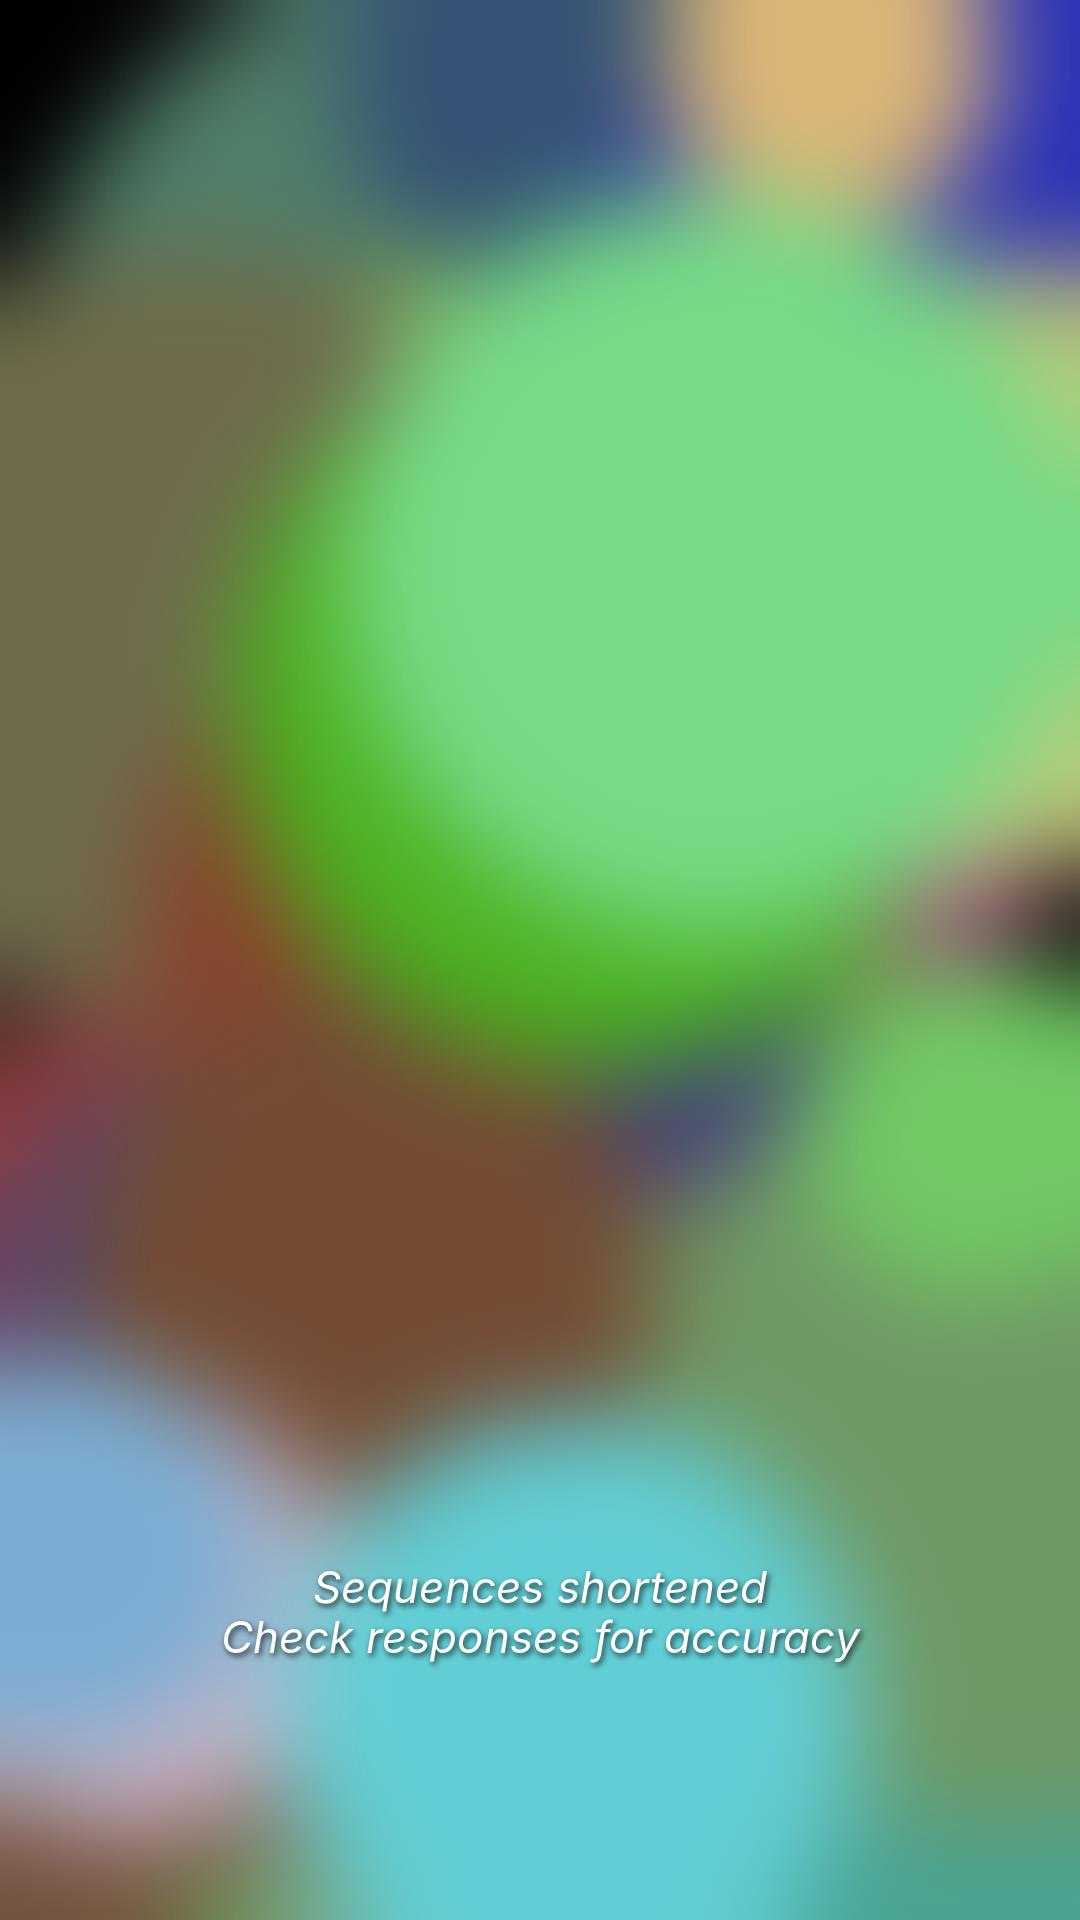
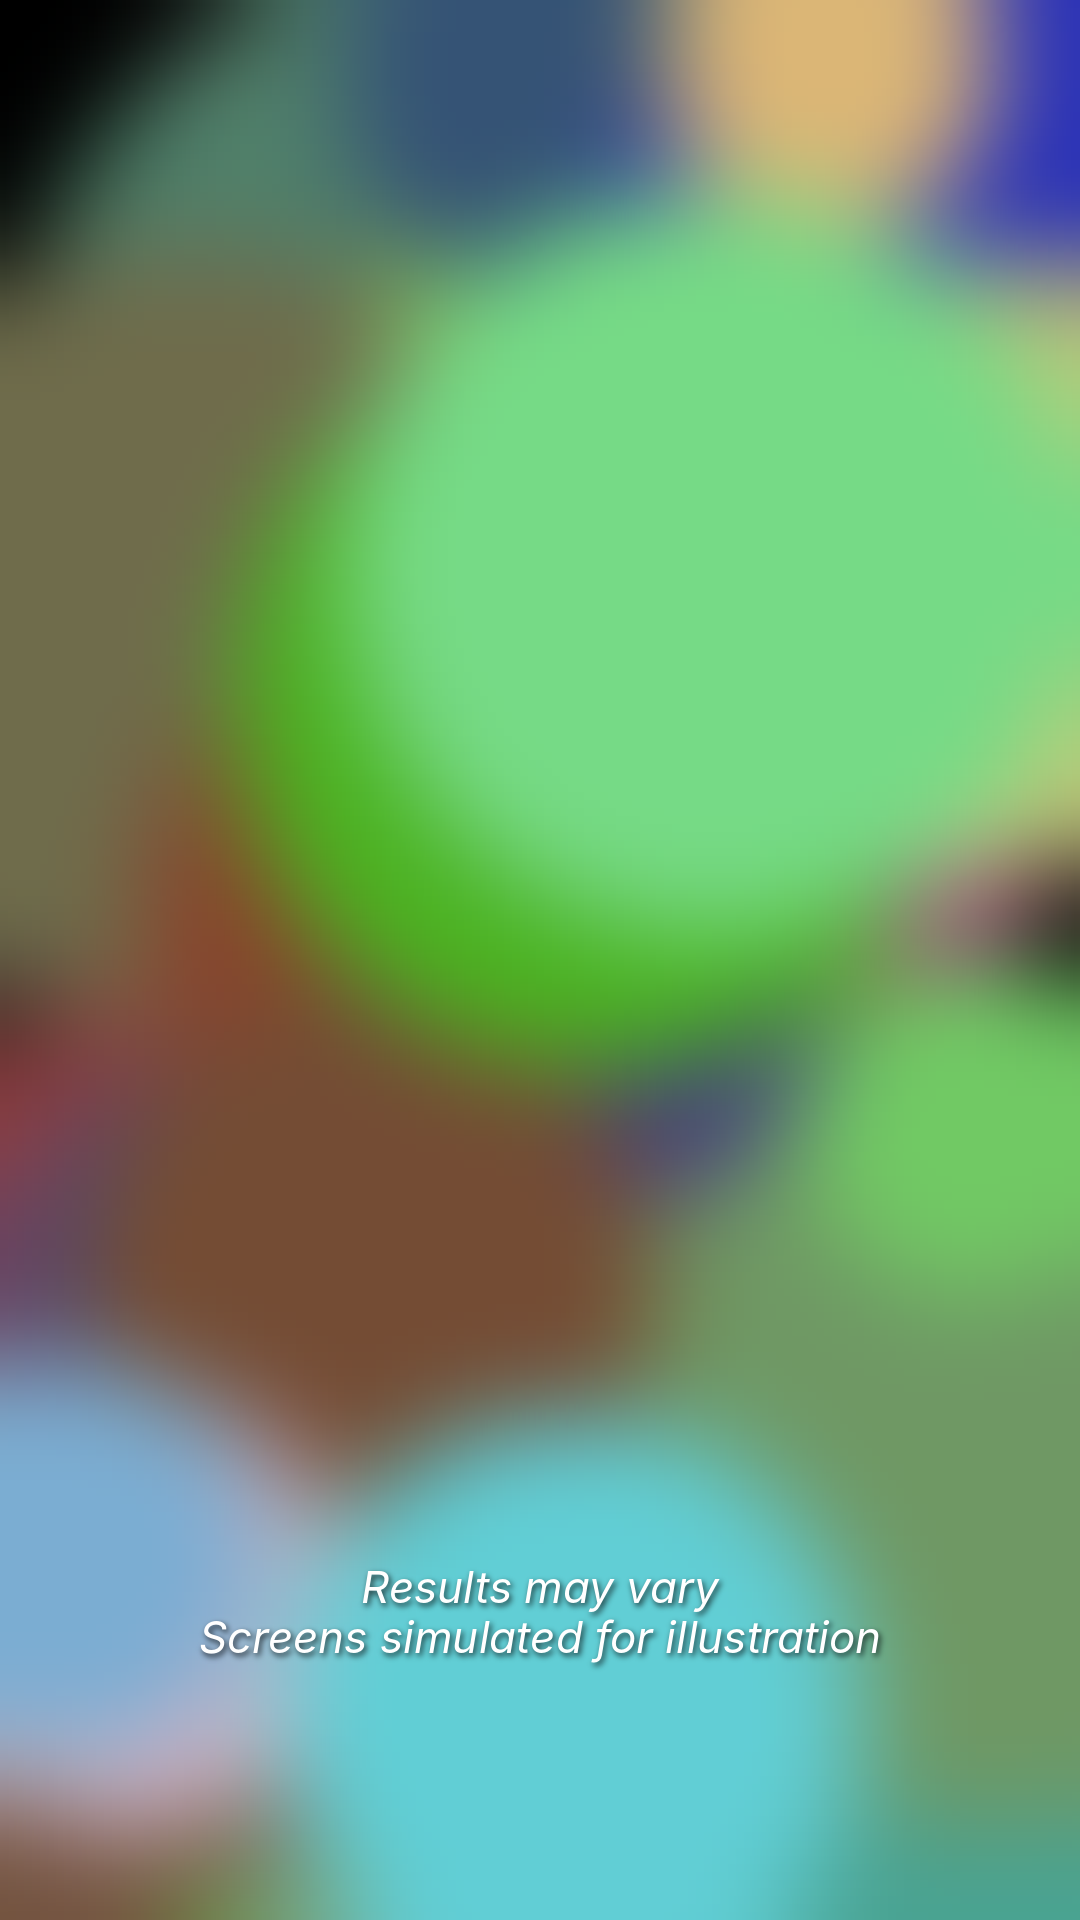
Readme, generic fixtures, disclaimer

Changed region(s): [[0.1833, 0.8125, 0.825, 0.875]]

diff --git a/fixtures/make.py b/fixtures/make.py
@@ -113,15 +113,15 @@ text_block(im, (60, 160), "Weekend", 150, (255, 255, 255), 960, BOLD)
 text_block(im, (60, 930), LEGAL, 28, (255, 255, 255), 960)
 save("feed_on_photo.png", im, 72, format="feed_square", font_px=28)
 
-# 10. Two candidate blocks: tiny UI text on a phone screen + the real super
+# 10. Two candidate blocks: tiny UI text on a phone screen + the real disclaimer super
 im = photo(1080, 1920, seed=11)
 d = ImageDraw.Draw(im)
 d.rounded_rectangle([360, 900, 860, 1500], 24, fill=(240, 238, 230))
-text_block(im, (390, 960), "Check our family calendar for a 2-hour slot next week when we're both free and suggest date ideas.", 18, (70, 70, 70), 440)
-text_block(im, (390, 1120), "Based on your calendar there is one clear 2-hour window during school hours.", 18, (110, 110, 110), 440)
+text_block(im, (390, 960), "Find a free hour on Thursday and suggest three places nearby for lunch.", 18, (70, 70, 70), 440)
+text_block(im, (390, 1120), "You have one free hour on Thursday afternoon between meetings.", 18, (110, 110, 110), 440)
 d.rectangle([0, 1640, 1080, 1800], fill=(30, 30, 30))
-text_block(im, (300, 1660), "Sequences shortened.", 40, (255, 255, 255), 700)
-text_block(im, (230, 1715), "Check responses for accuracy.", 40, (255, 255, 255), 700)
+text_block(im, (300, 1660), "Results may vary.", 40, (255, 255, 255), 700)
+text_block(im, (230, 1715), "Screens simulated for illustration.", 40, (255, 255, 255), 700)
 save("story_two_blocks.png", im, 72, format="story", font_px=18)
 
 # 11. Italic white super with a soft drop shadow straight over a photo
@@ -129,13 +129,13 @@ ITAL = "/usr/share/fonts/opentype/inter/Inter-Italic.otf"
 im = photo(1080, 1920, seed=5)
 sh = Image.new("RGBA", im.size, (0, 0, 0, 0))
 sd = ImageDraw.Draw(sh)
-for (y, t) in [(1560, "Sequences shortened"), (1610, "Check responses for accuracy")]:
+for (y, t) in [(1560, "Results may vary"), (1610, "Screens simulated for illustration")]:
     f = font(ITAL, 44); w = sd.textlength(t, font=f)
     sd.text(((1080 - w) / 2 + 2, y + 3), t, font=f, fill=(0, 0, 0, 200))
 sh = sh.filter(ImageFilter.GaussianBlur(3))
 im = Image.alpha_composite(im.convert("RGBA"), sh).convert("RGB")
 d = ImageDraw.Draw(im)
-for (y, t) in [(1560, "Sequences shortened"), (1610, "Check responses for accuracy")]:
+for (y, t) in [(1560, "Results may vary"), (1610, "Screens simulated for illustration")]:
     f = font(ITAL, 44); w = d.textlength(t, font=f)
     d.text(((1080 - w) / 2, y), t, font=f, fill=(255, 255, 255))
 save("story_super_photo.png", im, 72, format="story", font_px=44)

diff --git a/README.md b/README.md
@@ -1,63 +1,80 @@
-# smallpint
+# can you read the small print?
 
-Checks the legal copy on ad artwork for WCAG contrast and writes a rationale legal can sign off.
+a small tool that checks whether the legal copy on an ad is legible enough against the WCAG contrast rules, and writes a short note you can hand to legal.
 
-Drop in a PNG, JPG or WebP. Smallpint:
+[canyoureadthesmallprint.netlify.app](https://canyoureadthesmallprint.netlify.app)
 
-1. **Works out what the artwork is** from the file alone: standard ad sizes (incl. @2x/@3x exports), embedded DPI for print and OOH (incl. artwork supplied at 10% or 25%), and aspect-ratio families. Only asks a question when the size matches nothing.
-2. **Finds the legal copy** without OCR: the smallest consistent block of text on the artwork. The user can redraw the box.
-3. **Measures it**: text colour, worst-case background (for gradients and photos), and type size converted to what a person actually sees (CSS pt on screens; reading-distance equivalent for OOH).
-4. **Walks an internal rule tree** to AAA / AA / Fail and assembles a memo from pre-approved wording in [`crates/core/templates.toml`](crates/core/templates.toml).
+drop in an image, click the small print (or drag a box around it), and it tells you **AAA**, **AA** or **below AA**, with the reasoning. it all runs in your browser; the image never leaves your machine.
 
-Everything runs in the browser as WebAssembly. Artwork never leaves the device; there is no server and no LLM.
+a caveat up front: this was vibe coded with claude over an evening. the maths is the standard WCAG maths and there are tests, but it's a sketch rather than an audit tool. if you spot something wrong, issues and PRs are very welcome.
 
-## Layout
+## the maths
+
+all of this comes from the WCAG 2.x spec. nothing here is new.
+
+**1. colour to luminance.** each sRGB channel (0 to 1) is linearised, then weighted by how sensitive our eyes are to it (green most, blue least):
+
+```
+c ≤ 0.04045  →  c / 12.92
+otherwise    →  ((c + 0.055) / 1.055) ^ 2.4
+
+L = 0.2126 R + 0.7152 G + 0.0722 B
+```
+
+**2. contrast ratio.** lighter over darker, with a small offset for ambient light. it runs from 1:1 (same colour) to 21:1 (black on white):
+
+```
+ratio = (L_lighter + 0.05) / (L_darker + 0.05)
+```
+
+**3. thresholds.**
+
+|              | AA    | AAA   |
+| ------------ | ----- | ----- |
+| normal text  | 4.5:1 | 7:1   |
+| large text (18pt+, or 14pt+ bold) | 3:1 | 4.5:1 |
+
+that's the easy part. the fiddly bits are around the maths:
+
+- **which pixels are text?** inside the box you select, pixels are split into two groups by brightness ([Otsu's method](https://en.wikipedia.org/wiki/Otsu%27s_method)). the text colour is the median of the most solid 30% of text pixels, so anti-aliased edges don't drag it towards the background.
+- **which background?** the box is cut into tiles and every tile behind text is measured. the worst one is reported, so white text over a photo is judged on its weakest spot, not an average.
+- **how big is the text?** the x-height is measured from the rows of text pixels and divided by 0.56, the high end for real fonts. that way the estimate errs small, which means stricter thresholds when in doubt. ratios are truncated, never rounded up across a threshold.
+- **how big will it look?** this comes from the file. standard ad sizes (including @2x exports), embedded DPI for print (including billboard artwork supplied at 10%), or aspect ratio. on screens, `pt = image px × (screen css width ÷ image width) × 0.75`. for billboards the text is scaled to the same visual angle at a 40cm reading distance (`size × 0.4m ÷ viewing distance`). it's a rough benchmark, since WCAG doesn't formally cover print.
+
+## what it doesn't do
+
+- it's not legal advice. it checks contrast and size; it doesn't judge whether the wording is enough, or apply ASA / CAP / FTC prominence rules (beyond flagging very small text).
+- it doesn't read the text (no OCR). it knows *where* the copy is, not *what* it says.
+- PDFs aren't supported yet. export a PNG or JPG at the intended DPI.
+- bold detection is rough, so text is treated as regular weight unless it's clearly bold.
+- the text finder is heuristic. photo texture can produce stray outlines, and very stylised lettering may need a hand-drawn box.
+
+## how it's built
+
+the analysis is rust, compiled to WebAssembly and run in a web worker. the interface is a small vue app. there's no server; netlify just hosts the files.
 
 ```
 crates/
-  core/    the engine: context detection, text finding, measurement, rules, memo
-  wasm/    wasm-bindgen API for the browser
-  cli/     `smallpint <file>` for testing and batch checks
-web/       Vite + Vue UI (engine runs in a Web Worker)
-fixtures/  generated test artwork with known answers (python3 fixtures/make.py)
+  core/    the engine: format detection, text finding, measurement, rules, memo
+  wasm/    the browser bindings
+  cli/     same engine on the command line, handy for testing
+web/       vue + vite interface
+fixtures/  generated test artwork with known answers
 ```
 
-## Run it
+the memo is assembled from fixed sentences in [`crates/core/templates.toml`](crates/core/templates.toml), picked by the rules. there's no AI in the app itself. the same image always gives the same note, and the wording can be reviewed once and versioned (`ruleset` in that file). every note records the ruleset, version and a hash of the image.
 
-Needs Rust (via rustup) and Node 22. wasm-pack comes from npm.
+## run it
+
+needs rust (via rustup) and node 22.
 
 ```sh
 rustup target add wasm32-unknown-unknown
 
-cargo test --workspace                 # unit + fixture regression tests
+cargo test --workspace                   # unit + fixture tests
 cargo run --release -p smallpint-cli -- fixtures/story_grey_fail.png
 
-cd web && npm install && npm run dev   # builds the wasm, then starts Vite
+cd web && npm install && npm run dev     # builds the wasm, starts vite
 ```
 
-**Deploy:** link the repo in Netlify and leave the build settings empty; `netlify.toml` builds the Rust engine to WebAssembly and publishes `web/dist`. GitHub Actions runs the tests on every push.
-
-## How context detection works
-
-`crates/core/src/context.rs` holds the format catalogue. In order of strength:
-
-| Signal | Example | Result |
-| --- | --- | --- |
-| Exact ad size (×1, ×2, ×3) | 600×500 at 144dpi | MPU exported @2x, 300 CSS px wide |
-| DPI → physical size | 7200×3600 at 300dpi = 610×305mm | 48-sheet supplied at 10%, seen from 15m |
-| Aspect ratio | 720×1280 | Story (9:16), 390 CSS px wide |
-| Nothing | 1234×777 | Ask: Phone / Web page / Billboard / Print |
-
-72/96dpi and their @2x/@3x multiples are ignored as DPI evidence, since screen tools stamp them on everything. When two readings fit equally (a 48-sheet at 10% is the same file as a 12-sheet at 20%), the stricter one is the default and the other is offered under **Change**.
-
-Type size: x-height is measured from the glyph row profile and divided by 0.56, the high end of real fonts, so the estimate errs small and the stricter normal-text threshold applies when in doubt.
-
-## Changing the memo wording
-
-Edit `crates/core/templates.toml` and bump `ruleset`. Every memo's footer records the ruleset, engine version and a hash of the file it assessed.
-
-## Known limits (v0.1)
-
-- PDF artwork isn't read yet (export a PNG/JPG at the intended DPI).
-- Weight (bold) is only measured when glyphs are large enough; otherwise text is treated as regular.
-- Text detection is heuristic. Very stylised or touching letters may need the box drawing by hand.
+netlify picks up `netlify.toml`, so linking the repo is all the setup it needs.
